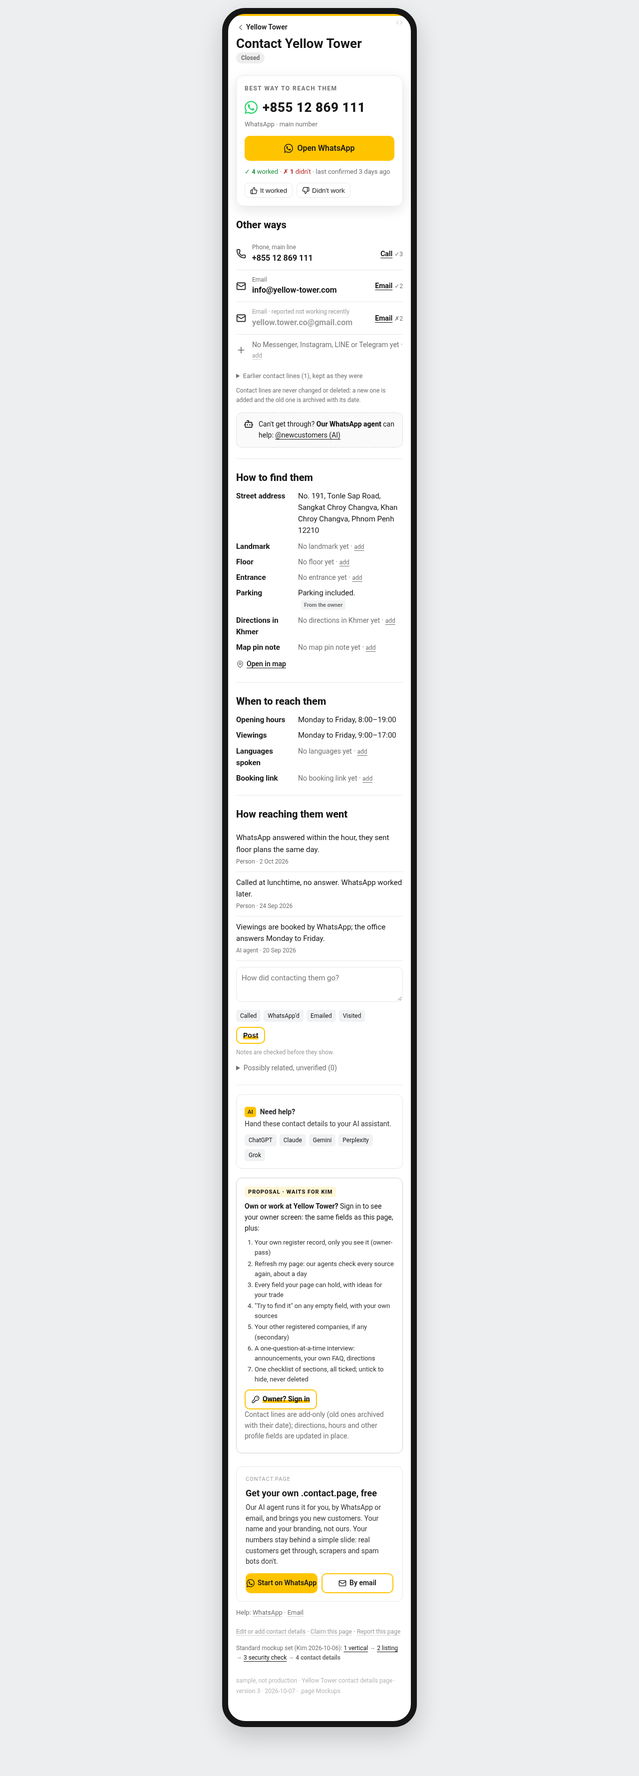
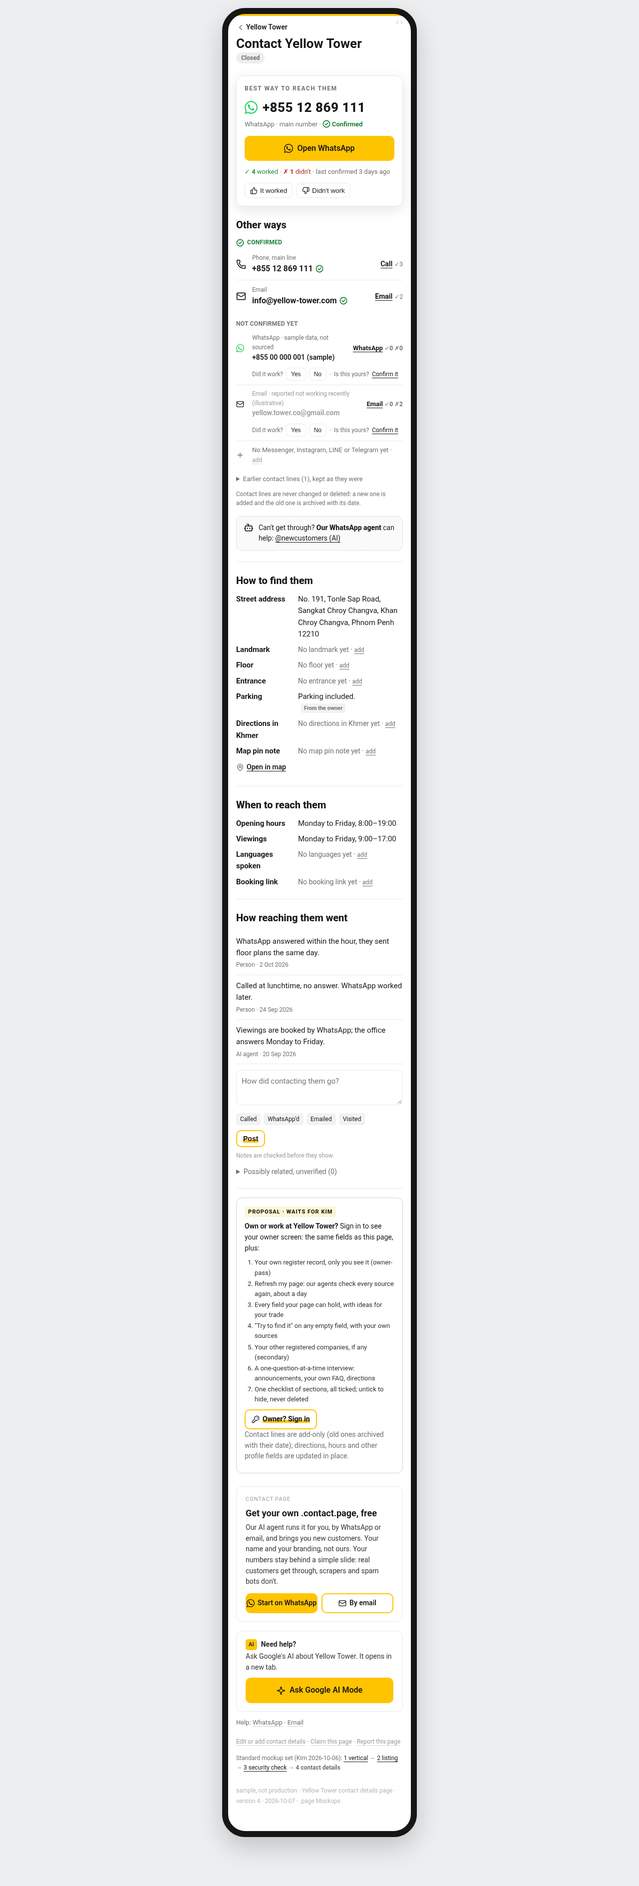
Publish mockups 2026-10-07 01:20 WITA

Changed region(s): [[0.375, 0.0, 0.625, 0.9989]]

diff --git a/yellow-tower-contact-details-page.html b/yellow-tower-contact-details-page.html
@@ -218,9 +218,37 @@ body[data-role="works_here"] .rolemsg{display:block}
 .house .own .linkbtn{color:var(--grey-2);font-size:12px}
 .house .own.hot .linkbtn:first-of-type{color:var(--ink);text-decoration-color:var(--yellow);text-decoration-thickness:3px}
 
-.best .btn.pri{background:var(--yellow);border:2px solid var(--yellow);color:var(--ink);font-weight:600;text-decoration:none}
-.best .btn.pri:hover{background:#ffd23d}
-.best .btn.pri svg{fill:currentColor}
+.btn.pri{background:var(--yellow);border:2px solid var(--yellow);color:var(--ink);font-weight:600;text-decoration:none}
+.btn.pri:hover{background:#ffd23d}
+.btn.pri svg[fill="#25D366"]{fill:currentColor}
+.tick{flex:none;vertical-align:-3px;margin-left:5px}
+.vok{color:#1a7f37;font-weight:700;white-space:nowrap}.vok .tick{margin:0 3px 0 0}
+.grp{display:flex;align-items:center;gap:6px;margin:4px 0 2px;font-size:12px;font-weight:700;color:#1a7f37;letter-spacing:.3px;text-transform:uppercase}
+.grp .tick{margin:0}
+.grp.un{color:var(--grey);margin-top:14px}
+.ways.uv li{padding:8px 0;font-size:13px}
+.ways.uv .v{font-weight:600;font-size:14px}
+.ways.uv .act{font-size:13px}
+.ways.uv li>svg{width:16px;height:16px}
+.uvr{grid-column:2/4;display:flex;flex-wrap:wrap;align-items:center;gap:6px;font-size:12px;color:var(--grey)}
+.uvr a{color:var(--ink)}
+.vb.sm{height:26px;padding:0 9px;font-size:12px}
+.linkbtn{background:none;border:0;padding:0;font:inherit;color:var(--ink);text-decoration:underline;cursor:pointer}
+.ways .act.linkbtn{font-weight:700}
+.aihelp{border:1px solid var(--line);border-radius:12px;padding:16px 18px;margin:18px 0 0;background:#fff;max-width:420px}
+.aihelp .t{display:flex;align-items:center;gap:8px;margin:0 0 2px;font-weight:800}
+.aihelp p{margin:0 0 10px;font-size:14px;color:#333}
+.shade{position:fixed;inset:0;background:rgba(0,0,0,.35);z-index:20}
+.sheet{position:fixed;left:0;right:0;bottom:0;z-index:21;max-width:480px;margin:0 auto;background:#fff;border-radius:16px 16px 0 0;
+  padding:18px 18px 22px;box-shadow:0 -6px 24px rgba(0,0,0,.18);transform:translateY(100%);transition:transform .2s ease-out}
+.sheet.in{transform:none}
+.sheet h2{font-size:18px;margin:0 0 6px}
+.sheet .sk{font-size:12px;font-weight:700;color:var(--grey);text-transform:uppercase;letter-spacing:.3px;margin:0 0 4px}
+.sheet .sp{font-size:14px;color:#333;margin:0 0 12px}
+.sheet .wsx{display:block;margin:12px auto 0;font-size:14px;color:var(--grey)}
+.sheet .votes{margin:8px 0 10px}
+[hidden]{display:none!important}
+@media (prefers-reduced-motion:reduce){.sheet{transition:none}}
 </style>
 </head>
 <body data-role="">
@@ -238,10 +266,10 @@ body[data-role="works_here"] .rolemsg{display:block}
 <p class="rolemsg">You said you’re the owner or staff. <a href="https://wa.me/newcustomers?text=%5BDETAILS%7Ckh34363%7Cclaim%5D%20Hi%2C%20I%20work%20at%20or%20own%20Yellow%20Tower%20%28kh34363.contact.page%29%20and%20want%20to%20claim%20this%20page.%0AMy%20email%3A%20">Claim this page</a> to update it, or <a href="owner-screen.html">see the owner screen</a>.</p>
 
 
-<section class="best" aria-labelledby="b-h">
+<section class="best" aria-labelledby="b-h" data-votebox>
 <p class="k" id="b-h">Best way to reach them</p>
 <p class="val"><svg viewBox="0 0 24 24" width="26" height="26" fill="#25D366" aria-hidden="true"><path d="M17.472 14.382c-.297-.149-1.758-.867-2.03-.967-.273-.099-.471-.148-.67.15-.197.297-.767.966-.94 1.164-.173.199-.347.223-.644.075-.297-.15-1.255-.463-2.39-1.475-.883-.788-1.48-1.761-1.653-2.059-.173-.297-.018-.458.13-.606.134-.133.298-.347.446-.52.149-.174.198-.298.298-.497.099-.198.05-.371-.025-.52-.075-.149-.669-1.612-.916-2.207-.242-.579-.487-.5-.669-.51-.173-.008-.371-.01-.57-.01-.198 0-.52.074-.792.372-.272.297-1.04 1.016-1.04 2.479 0 1.462 1.065 2.875 1.213 3.074.149.198 2.096 3.2 5.077 4.487.709.306 1.262.489 1.694.625.712.227 1.36.195 1.871.118.571-.085 1.758-.719 2.006-1.413.248-.694.248-1.289.173-1.413-.074-.124-.272-.198-.57-.347m-5.421 7.403h-.004a9.87 9.87 0 01-5.031-1.378l-.361-.214-3.741.982.998-3.648-.235-.374a9.86 9.86 0 01-1.51-5.26c.001-5.45 4.436-9.884 9.888-9.884 2.64 0 5.122 1.03 6.988 2.898a9.825 9.825 0 012.893 6.994c-.003 5.45-4.437 9.884-9.885 9.884m8.413-18.297A11.815 11.815 0 0012.05 0C5.495 0 .16 5.335.157 11.892c0 2.096.547 4.142 1.588 5.945L.057 24l6.305-1.654a11.882 11.882 0 005.683 1.448h.005c6.554 0 11.89-5.335 11.893-11.893a11.821 11.821 0 00-3.48-8.413Z"/></svg>+855 12 869 111</p>
-<p class="kind">WhatsApp &middot; main number</p>
+<p class="kind">WhatsApp &middot; main number &middot; <span class="vok"><svg class="tick" viewBox="0 0 24 24" width="16" height="16" fill="none" stroke="#1a7f37" stroke-width="2.5" stroke-linecap="round" stroke-linejoin="round" aria-hidden="true"><circle cx="12" cy="12" r="10" /><path d="m8 12 3 3 5-6" /></svg>Confirmed</span></p>
 <a class="btn wide pri" href="https://wa.me/85512869111"><svg viewBox="0 0 24 24" width="18" height="18" fill="#25D366" aria-hidden="true"><path d="M17.472 14.382c-.297-.149-1.758-.867-2.03-.967-.273-.099-.471-.148-.67.15-.197.297-.767.966-.94 1.164-.173.199-.347.223-.644.075-.297-.15-1.255-.463-2.39-1.475-.883-.788-1.48-1.761-1.653-2.059-.173-.297-.018-.458.13-.606.134-.133.298-.347.446-.52.149-.174.198-.298.298-.497.099-.198.05-.371-.025-.52-.075-.149-.669-1.612-.916-2.207-.242-.579-.487-.5-.669-.51-.173-.008-.371-.01-.57-.01-.198 0-.52.074-.792.372-.272.297-1.04 1.016-1.04 2.479 0 1.462 1.065 2.875 1.213 3.074.149.198 2.096 3.2 5.077 4.487.709.306 1.262.489 1.694.625.712.227 1.36.195 1.871.118.571-.085 1.758-.719 2.006-1.413.248-.694.248-1.289.173-1.413-.074-.124-.272-.198-.57-.347m-5.421 7.403h-.004a9.87 9.87 0 01-5.031-1.378l-.361-.214-3.741.982.998-3.648-.235-.374a9.86 9.86 0 01-1.51-5.26c.001-5.45 4.436-9.884 9.888-9.884 2.64 0 5.122 1.03 6.988 2.898a9.825 9.825 0 012.893 6.994c-.003 5.45-4.437 9.884-9.885 9.884m8.413-18.297A11.815 11.815 0 0012.05 0C5.495 0 .16 5.335.157 11.892c0 2.096.547 4.142 1.588 5.945L.057 24l6.305-1.654a11.882 11.882 0 005.683 1.448h.005c6.554 0 11.89-5.335 11.893-11.893a11.821 11.821 0 00-3.48-8.413Z"/></svg>Open WhatsApp</a>
 <div class="votes" data-ch="wa">
 <span><span class="ok">&#10003; <b class="w">4</b> worked</span> &middot; <span class="bad">&#10007; <b class="f">1</b> didn't</span> &middot; last confirmed 3 days ago</span>
@@ -255,10 +283,17 @@ body[data-role="works_here"] .rolemsg{display:block}
 
 <section class="sec" aria-labelledby="o-h">
 <h2 class="h2s" id="o-h">Other ways</h2>
+<p class="grp"><svg class="tick" viewBox="0 0 24 24" width="16" height="16" fill="none" stroke="#1a7f37" stroke-width="2.5" stroke-linecap="round" stroke-linejoin="round" aria-hidden="true"><circle cx="12" cy="12" r="10" /><path d="m8 12 3 3 5-6" /></svg>Confirmed</p>
 <ul class="ways">
-<li><svg viewBox="0 0 24 24" width="20" height="20" fill="none" stroke="currentColor" stroke-width="2" stroke-linecap="round" stroke-linejoin="round" aria-hidden="true"><path d="M13.832 16.568a1 1 0 0 0 1.213-.303l.355-.465A2 2 0 0 1 17 15h3a2 2 0 0 1 2 2v3a2 2 0 0 1-2 2A18 18 0 0 1 2 4a2 2 0 0 1 2-2h3a2 2 0 0 1 2 2v3a2 2 0 0 1-.8 1.6l-.468.351a1 1 0 0 0-.292 1.233 14 14 0 0 0 6.392 6.384" /></svg><span><span class="lb">Phone, main line</span><span class="v">+855 12 869 111</span></span><span><a class="act" href="tel:+85512869111">Call</a> <span class="vc">&#10003;3</span></span></li>
-<li><svg viewBox="0 0 24 24" width="20" height="20" fill="none" stroke="currentColor" stroke-width="2" stroke-linecap="round" stroke-linejoin="round" aria-hidden="true"><path d="m22 7-8.991 5.727a2 2 0 0 1-2.009 0L2 7" /> <rect x="2" y="4" width="20" height="16" rx="2" /></svg><span><span class="lb">Email</span><span class="v">info@yellow-tower.com</span></span><span><a class="act" href="mailto:info@yellow-tower.com">Email</a> <span class="vc">&#10003;2</span></span></li>
-<li class="gone"><svg viewBox="0 0 24 24" width="20" height="20" fill="none" stroke="currentColor" stroke-width="2" stroke-linecap="round" stroke-linejoin="round" aria-hidden="true"><path d="m22 7-8.991 5.727a2 2 0 0 1-2.009 0L2 7" /> <rect x="2" y="4" width="20" height="16" rx="2" /></svg><span><span class="lb">Email &middot; reported not working recently</span><span class="v">yellow.tower.co@gmail.com</span></span><span><a class="act" href="mailto:yellow.tower.co@gmail.com">Email</a> <span class="vc">&#10007;2</span></span></li>
+<li><svg viewBox="0 0 24 24" width="20" height="20" fill="none" stroke="currentColor" stroke-width="2" stroke-linecap="round" stroke-linejoin="round" aria-hidden="true"><path d="M13.832 16.568a1 1 0 0 0 1.213-.303l.355-.465A2 2 0 0 1 17 15h3a2 2 0 0 1 2 2v3a2 2 0 0 1-2 2A18 18 0 0 1 2 4a2 2 0 0 1 2-2h3a2 2 0 0 1 2 2v3a2 2 0 0 1-.8 1.6l-.468.351a1 1 0 0 0-.292 1.233 14 14 0 0 0 6.392 6.384" /></svg><span><span class="lb">Phone, main line</span><span class="v">+855 12 869 111<svg class="tick" viewBox="0 0 24 24" width="16" height="16" fill="none" stroke="#1a7f37" stroke-width="2.5" stroke-linecap="round" stroke-linejoin="round" aria-hidden="true"><circle cx="12" cy="12" r="10" /><path d="m8 12 3 3 5-6" /></svg></span></span><span><a class="act" href="tel:+85512869111">Call</a> <span class="vc">&#10003;3</span></span></li>
+<li><svg viewBox="0 0 24 24" width="20" height="20" fill="none" stroke="currentColor" stroke-width="2" stroke-linecap="round" stroke-linejoin="round" aria-hidden="true"><path d="m22 7-8.991 5.727a2 2 0 0 1-2.009 0L2 7" /> <rect x="2" y="4" width="20" height="16" rx="2" /></svg><span><span class="lb">Email</span><span class="v">info@yellow-tower.com<svg class="tick" viewBox="0 0 24 24" width="16" height="16" fill="none" stroke="#1a7f37" stroke-width="2.5" stroke-linecap="round" stroke-linejoin="round" aria-hidden="true"><circle cx="12" cy="12" r="10" /><path d="m8 12 3 3 5-6" /></svg></span></span><span><a class="act" href="mailto:info@yellow-tower.com">Email</a> <span class="vc">&#10003;2</span></span></li>
+</ul>
+<p class="grp un">Not confirmed yet</p>
+<ul class="ways uv">
+<li data-votebox><svg viewBox="0 0 24 24" width="18" height="18" fill="#25D366" aria-hidden="true"><path d="M17.472 14.382c-.297-.149-1.758-.867-2.03-.967-.273-.099-.471-.148-.67.15-.197.297-.767.966-.94 1.164-.173.199-.347.223-.644.075-.297-.15-1.255-.463-2.39-1.475-.883-.788-1.48-1.761-1.653-2.059-.173-.297-.018-.458.13-.606.134-.133.298-.347.446-.52.149-.174.198-.298.298-.497.099-.198.05-.371-.025-.52-.075-.149-.669-1.612-.916-2.207-.242-.579-.487-.5-.669-.51-.173-.008-.371-.01-.57-.01-.198 0-.52.074-.792.372-.272.297-1.04 1.016-1.04 2.479 0 1.462 1.065 2.875 1.213 3.074.149.198 2.096 3.2 5.077 4.487.709.306 1.262.489 1.694.625.712.227 1.36.195 1.871.118.571-.085 1.758-.719 2.006-1.413.248-.694.248-1.289.173-1.413-.074-.124-.272-.198-.57-.347m-5.421 7.403h-.004a9.87 9.87 0 01-5.031-1.378l-.361-.214-3.741.982.998-3.648-.235-.374a9.86 9.86 0 01-1.51-5.26c.001-5.45 4.436-9.884 9.888-9.884 2.64 0 5.122 1.03 6.988 2.898a9.825 9.825 0 012.893 6.994c-.003 5.45-4.437 9.884-9.885 9.884m8.413-18.297A11.815 11.815 0 0012.05 0C5.495 0 .16 5.335.157 11.892c0 2.096.547 4.142 1.588 5.945L.057 24l6.305-1.654a11.882 11.882 0 005.683 1.448h.005c6.554 0 11.89-5.335 11.893-11.893a11.821 11.821 0 00-3.48-8.413Z"/></svg><span><span class="lb">WhatsApp &middot; sample data, not sourced</span><span class="v">+855 00 000 001 (sample)</span></span><span><button class="act linkbtn" type="button" data-wa="85500000001">WhatsApp</button> <span class="vc">&#10003;<b class="w">0</b> &#10007;<b class="f">0</b></span></span>
+<div class="uvr"><span class="uvq">Did it work?</span> <button class="vb sm" type="button" data-v="w">Yes</button> <button class="vb sm" type="button" data-v="f">No</button> <span class="sep">&middot;</span> Is this yours? <a href="https://wa.me/newcustomers?text=%5BGATE%7Ckh34363%7Cconfirm%5D%20Hi%2C%20the%20unconfirmed%20WhatsApp%20number%20on%20Yellow%20Tower%20%28kh34363.contact.page%29%20is%20mine%20and%20I%20want%20to%20confirm%20it.%0AMy%20email%3A%20">Confirm it</a></div></li>
+<li data-votebox class="gone"><svg viewBox="0 0 24 24" width="20" height="20" fill="none" stroke="currentColor" stroke-width="2" stroke-linecap="round" stroke-linejoin="round" aria-hidden="true"><path d="m22 7-8.991 5.727a2 2 0 0 1-2.009 0L2 7" /> <rect x="2" y="4" width="20" height="16" rx="2" /></svg><span><span class="lb">Email &middot; reported not working recently (illustrative)</span><span class="v">yellow.tower.co@gmail.com</span></span><span><a class="act" href="mailto:yellow.tower.co@gmail.com">Email</a> <span class="vc">&#10003;<b class="w">0</b> &#10007;<b class="f">2</b></span></span>
+<div class="uvr"><span class="uvq">Did it work?</span> <button class="vb sm" type="button" data-v="w">Yes</button> <button class="vb sm" type="button" data-v="f">No</button> <span class="sep">&middot;</span> Is this yours? <a href="https://wa.me/newcustomers?text=%5BGATE%7Ckh34363%7Cconfirm%5D%20Hi%2C%20the%20email%20yellow.tower.co%40gmail.com%20on%20Yellow%20Tower%20%28kh34363.contact.page%29%20is%20mine%20and%20I%20want%20to%20confirm%20it.%0AMy%20email%3A%20">Confirm it</a></div></li>
 <li class="empty"><svg viewBox="0 0 24 24" width="20" height="20" fill="none" stroke="currentColor" stroke-width="2" stroke-linecap="round" stroke-linejoin="round" aria-hidden="true"><path d="M5 12h14" /> <path d="M12 5v14" /></svg><span>No Messenger, Instagram, LINE or Telegram yet &middot; <a class="small-act" href="https://wa.me/newcustomers?text=%5BDETAILS%7Ckh34363%7Cadd-channel%5D%20Hi%2C%20I%20want%20to%20add%20a%20contact%20channel%20for%20Yellow%20Tower%20%28kh34363.contact.page%29.%0AMy%20email%3A%20">add</a></span></li>
 </ul>
 <details class="arch">
@@ -316,12 +351,6 @@ body[data-role="works_here"] .rolemsg{display:block}
 </section>
 
 
-<section class="help" style="margin:18px 0 0;border-radius:12px" aria-labelledby="h-h">
-<p class="t" id="h-h"><span class="badge">AI</span>Need help?</p>
-<p>Hand these contact details to your AI assistant.</p>
-<div class="chiprow"><button class="chip" type="button">ChatGPT</button><button class="chip" type="button">Claude</button><button class="chip" type="button">Gemini</button><button class="chip" type="button">Perplexity</button><button class="chip" type="button">Grok</button></div>
-</section>
-
 <footer>
 
 <div class="ownerbox">
@@ -353,11 +382,35 @@ body[data-role="works_here"] .rolemsg{display:block}
 </aside>
 
 
+<section class="aihelp" aria-labelledby="h-h">
+<p class="t" id="h-h"><span class="badge">AI</span>Need help?</p>
+<p>Ask Google's AI about Yellow Tower. It opens in a new tab.</p>
+<a class="btn wide pri" href="https://www.google.com/search?udm=50&amp;hl=en&amp;q=Yellow%20Tower%20office%20space%2C%20Phnom%20Penh%20%28kh34363.contact.page%29%3A%20what%20is%20the%20best%20way%20to%20contact%20them%2C%20and%20when%20are%20they%20open%3F" target="_blank" rel="noopener nofollow"><svg viewBox="0 0 24 24" width="18" height="18" fill="none" stroke="currentColor" stroke-width="2" stroke-linecap="round" stroke-linejoin="round" aria-hidden="true"><path d="M9.937 15.5A2 2 0 0 0 8.5 14.063l-6.135-1.582a.5.5 0 0 1 0-.962L8.5 9.936A2 2 0 0 0 9.937 8.5l1.582-6.135a.5.5 0 0 1 .963 0L14.063 8.5A2 2 0 0 0 15.5 9.937l6.135 1.581a.5.5 0 0 1 0 .964L15.5 14.063a2 2 0 0 0-1.437 1.437l-1.582 6.135a.5.5 0 0 1-.963 0z" /></svg>Ask Google AI Mode</a>
+</section>
+
+
 <p class="fhelp">Help: <a href="https://wa.me/newcustomers?text=%5BDETAILS%7Ckh34363%7Chelp%5D%20Hi%2C%20I%20need%20help%20with%20contact.page%3A%0AMy%20email%3A%20">WhatsApp</a> · <a href="mailto:newcustomers@contact.page?subject=%5BDETAILS%7Ckh34363%7Chelp%5D%20Help%20with%20contact.page&amp;body=What%20do%20you%20need%20help%20with%3F%0A">Email</a></p>
 <p class="report"><a class="small-act" href="https://wa.me/newcustomers?text=%5BDETAILS%7Ckh34363%7Cedit%5D%20Hi%2C%20I%20want%20to%20update%20or%20add%20contact%20details%20for%20Yellow%20Tower%20%28kh34363.contact.page%29.%0AMy%20email%3A%20">Edit or add contact details</a> &middot; <a class="small-act" href="https://wa.me/newcustomers?text=%5BDETAILS%7Ckh34363%7Cclaim%5D%20Hi%2C%20I%20work%20at%20or%20own%20Yellow%20Tower%20%28kh34363.contact.page%29%20and%20want%20to%20claim%20this%20page.%0AMy%20email%3A%20">Claim this page</a> &middot; <a class="small-act" href="https://wa.me/newcustomers?text=%5BDETAILS%7Ckh34363%7Creport%5D%20Hi%2C%20I%20want%20to%20report%20a%20problem%20with%20the%20contact%20details%20of%20Yellow%20Tower%20%28kh34363.contact.page%29.%0AMy%20email%3A%20">Report this page</a></p>
 <p class="chain">Standard mockup set (Kim 2026-10-06): <a href="phnom-penh-office-rental-vertical-page.html">1 vertical</a> &rarr; <a href="yellow-tower-listing-page.html">2 listing</a> &rarr; <a href="yellow-tower-security-page.html">3 security check</a> &rarr; <b>4 contact details</b></p>
-<p class="meta">sample, not production · Yellow Tower contact details page · version 3 · 2026-10-07 · .page Mockups</p>
+<p class="meta">sample, not production · Yellow Tower contact details page · version 4 · 2026-10-07 · .page Mockups</p>
 </footer>
+</div>
+
+<div class="shade" id="shade" hidden></div>
+<div class="sheet" id="waSheet" role="dialog" aria-modal="true" aria-labelledby="ws-h" hidden>
+<div class="s1">
+<p class="sk">Not confirmed yet</p>
+<h2 id="ws-h">WhatsApp +855 00 000 001 (sample)</h2>
+<p class="sp">Nobody has confirmed this number yet. Try it, then tell us if it worked: it helps the next person.</p>
+<a class="btn wide pri" id="wsOpen" href="https://wa.me/85500000001" target="_blank" rel="noopener"><svg viewBox="0 0 24 24" width="18" height="18" fill="#25D366" aria-hidden="true"><path d="M17.472 14.382c-.297-.149-1.758-.867-2.03-.967-.273-.099-.471-.148-.67.15-.197.297-.767.966-.94 1.164-.173.199-.347.223-.644.075-.297-.15-1.255-.463-2.39-1.475-.883-.788-1.48-1.761-1.653-2.059-.173-.297-.018-.458.13-.606.134-.133.298-.347.446-.52.149-.174.198-.298.298-.497.099-.198.05-.371-.025-.52-.075-.149-.669-1.612-.916-2.207-.242-.579-.487-.5-.669-.51-.173-.008-.371-.01-.57-.01-.198 0-.52.074-.792.372-.272.297-1.04 1.016-1.04 2.479 0 1.462 1.065 2.875 1.213 3.074.149.198 2.096 3.2 5.077 4.487.709.306 1.262.489 1.694.625.712.227 1.36.195 1.871.118.571-.085 1.758-.719 2.006-1.413.248-.694.248-1.289.173-1.413-.074-.124-.272-.198-.57-.347m-5.421 7.403h-.004a9.87 9.87 0 01-5.031-1.378l-.361-.214-3.741.982.998-3.648-.235-.374a9.86 9.86 0 01-1.51-5.26c.001-5.45 4.436-9.884 9.888-9.884 2.64 0 5.122 1.03 6.988 2.898a9.825 9.825 0 012.893 6.994c-.003 5.45-4.437 9.884-9.885 9.884m8.413-18.297A11.815 11.815 0 0012.05 0C5.495 0 .16 5.335.157 11.892c0 2.096.547 4.142 1.588 5.945L.057 24l6.305-1.654a11.882 11.882 0 005.683 1.448h.005c6.554 0 11.89-5.335 11.893-11.893a11.821 11.821 0 00-3.48-8.413Z"/></svg>Open WhatsApp</a>
+<button class="linkbtn wsx" type="button">Cancel</button>
+</div>
+<div class="s2" hidden>
+<h2>Did WhatsApp work?</h2>
+<div class="votes"><button class="vb" type="button" data-sv="w">Yes, it worked</button><button class="vb" type="button" data-sv="f">No</button></div>
+<p class="sp thx" hidden>Thanks, your answer counts toward confirming this number.</p>
+<button class="linkbtn wsx" type="button">Close</button>
+</div>
 </div>
 <script>
 // Mockup behaviour only: in-memory state, nothing is sent.
@@ -367,10 +420,27 @@ body[data-role="works_here"] .rolemsg{display:block}
   var n=new Date(Date.now()+(7*60+new Date().getTimezoneOffset())*60000), d=n.getDay(), h=n.getHours()+n.getMinutes()/60,
       open=d>=1&&d<=5&&h>=8&&h<19, p=document.getElementById('openPill'); p.textContent=open?'Open now':'Closed'; p.classList.toggle('open',open);
   document.querySelectorAll('[data-note]').forEach(function(a){ a.addEventListener('click',function(e){ e.preventDefault(); var x=document.getElementById(a.dataset.note); x.style.display='block'; }); });
-  document.querySelectorAll('.vb').forEach(function(b){ b.addEventListener('click',function(){
-    if(b.classList.contains('on')) return;
-    document.querySelectorAll('.vb').forEach(function(o){ o.classList.remove('on'); });
-    b.classList.add('on'); var el=document.querySelector('.votes[data-ch="wa"] .'+b.dataset.v); el.textContent=(+el.textContent)+1; }); });
+  function vote(box,v){ var el=box.querySelector('.'+v); if(el) el.textContent=(+el.textContent)+1; }
+  document.querySelectorAll('[data-votebox] .vb').forEach(function(b){ b.addEventListener('click',function(){
+    var box=b.closest('[data-votebox]'); if(box.querySelector('.vb.on')) return;
+    b.classList.add('on'); vote(box,b.dataset.v); }); });
+  // Slide-out panel: WhatsApp on an unconfirmed number
+  var sh=document.getElementById('waSheet'), shade=document.getElementById('shade'), row=null, away=false, opener=null;
+  function openSheet(btn){ opener=btn; row=btn.closest('[data-votebox]'); sh.querySelector('.s1').hidden=false; sh.querySelector('.s2').hidden=true;
+    sh.querySelector('.thx').hidden=true; sh.querySelectorAll('[data-sv]').forEach(function(x){x.classList.remove('on');x.disabled=false;});
+    sh.hidden=false; shade.hidden=false; requestAnimationFrame(function(){ sh.classList.add('in'); }); document.getElementById('wsOpen').focus(); }
+  function closeSheet(){ sh.classList.remove('in'); shade.hidden=true; away=false; setTimeout(function(){ sh.hidden=true; },200); if(opener) opener.focus(); }
+  function back(){ if(!away) return; away=false; sh.querySelector('.s1').hidden=true; sh.querySelector('.s2').hidden=false; sh.querySelector('[data-sv]').focus(); }
+  document.querySelectorAll('[data-wa]').forEach(function(b){ b.addEventListener('click',function(){ openSheet(b); }); });
+  document.getElementById('wsOpen').addEventListener('click',function(){ away=true; setTimeout(back,2500); });
+  document.addEventListener('visibilitychange',function(){ if(!document.hidden) back(); });
+  window.addEventListener('focus',back);
+  sh.querySelectorAll('[data-sv]').forEach(function(b){ b.addEventListener('click',function(){
+    b.classList.add('on'); sh.querySelectorAll('[data-sv]').forEach(function(x){x.disabled=true;}); sh.querySelector('.thx').hidden=false;
+    if(row && !row.querySelector('.vb.on')){ var m=row.querySelector('.vb[data-v="'+b.dataset.sv+'"]'); if(m) m.classList.add('on'); vote(row,b.dataset.sv); } }); });
+  sh.querySelectorAll('.wsx').forEach(function(b){ b.addEventListener('click',closeSheet); });
+  shade.addEventListener('click',closeSheet);
+  document.addEventListener('keydown',function(e){ if(e.key==='Escape' && !sh.hidden) closeSheet(); });
   document.querySelectorAll('#qc .chip').forEach(function(c){ c.addEventListener('click',function(){ var t=document.getElementById('nt'); t.value=(t.value?t.value+' ':'')+c.textContent+'.'; t.focus(); }); });
   document.getElementById('post').addEventListener('click',function(){ var t=document.getElementById('nt'); if(!t.value.trim()) return;
     var li=document.createElement('li'); li.textContent=t.value.trim(); var s=document.createElement('span'); s.className='by'; s.textContent='You · waiting for the check'; li.appendChild(s);

diff --git a/dev/yellow-tower-contact-details-page-notes.html b/dev/yellow-tower-contact-details-page-notes.html
@@ -9,7 +9,7 @@ pre{white-space:pre-wrap;word-wrap:break-word;font:14px/1.6 -apple-system,Segoe 
 <h1>Developer notes: Contact details</h1>
 <p>The notes written into the mockup's source, summary first, then in page order (top to bottom). Sample data only; contact values are masked.</p>
 <ol>
-<li><pre>YELLOW TOWER CONTACT DETAILS PAGE (current: version 3, 2026-10-07, .page Mockups). Design task D015. Route in production:
+<li><pre>YELLOW TOWER CONTACT DETAILS PAGE (current: version 4, 2026-10-07, .page Mockups). Design task D015. Route in production:
 kh34363.contact.page/contact-details after the check (the security page and this page share the route; the server shows
 this page once cp_verified is set). Page 4 of the standard mockup set (Kim 2026-10-06):
 1 phnom-penh-office-rental-vertical-page.html -&gt; 2 yellow-tower-listing-page.html -&gt; 3 yellow-tower-security-page.html -&gt; 4 this page.
@@ -23,7 +23,7 @@ BUILT FROM
 
 ORDER, mobile first: header (back link, H1, subline, open pill) -&gt; role line (the owner or staff) -&gt; best way card with votes -&gt;
 other ways (+ earlier contact lines, archived) -&gt; agent row -&gt; how to find them -&gt; when to reach them -&gt; community notes -&gt;
-ad -&gt; need help -&gt; footer: owner box (proposal), edit / claim / report, set chain, sample line.
+footer: owner box (proposal), house ad, AI help (Google AI Mode), help, edit / claim / report, set chain, sample line.
 
 RULES APPLIED
 - noindex (N14). No AdSense on the gate; one slot here, after the content, never beside a contact button.
@@ -41,6 +41,10 @@ OPEN FOR KIM
 - Which channel leads when there are no votes yet (proposal: the one the owner marks main, else phone).
 
 CHANGE LOG
+v4 2026-10-07 (.page Mockups, Kim): confirmed contact lines first with a green tick, unconfirmed lines below, smaller, each
+               with &quot;Did it work?&quot; Yes/No and &quot;Is this yours? Confirm it&quot; ([GATE|kh34363|confirm], asks the email); WhatsApp
+               on an unconfirmed number opens a slide-out panel, then asks &quot;Did WhatsApp work?&quot;; AI help = one button to
+               Google AI Mode (new tab, noopener nofollow) below the house ad, replacing the assistant chips. v3 in archive/.
 v3 2026-10-07 (.page Mockups): Kim: no subline under the H1; every contact value in full (phone placeholders filled at
                publish, emails literal); &quot;Open WhatsApp&quot; in the new style (solid yellow, weight 600, no underline). Audit: AdSense slot replaced by our house ad (get your free site), placed after the
                owner box, far from the AI chips; WhatsApp texts ask for the email (N25); dev notes for items 8 and 10. Also footer Help offers both channels, WhatsApp and the email bot (Kim 2026-10-07, MVP; email preferred longer-term); no other footer links added (Terms / Cookie settings wait for Kim). v2 in archive/.
@@ -73,7 +77,17 @@ Same field set and order as the owner screen&#x27;s &quot;Your contact details&q
 Phone (main line), WhatsApp, Email; extra emails as extra rows. No website row (N22: open whether it shows after a
 link check passes; not shown until Kim decides).
 DATA RULE (Kim 2026-10-06, data-pool-design layer 6): contact lines are add-only. A new number is a new row; an old one
-is archived with its date, never edited or deleted (&quot;Earlier contact lines&quot; below; the archived line is sample data).</pre></li>
+is archived with its date, never edited or deleted (&quot;Earlier contact lines&quot; below; the archived line is sample data).
+VERIFIED VS UNVERIFIED (Kim 2026-10-07, v4): confirmed lines first, each with a green tick; unconfirmed lines below,
+smaller, each with a &quot;Did it work? Yes / No&quot; vote and &quot;Is this yours? Confirm it&quot; = WhatsApp to our agent with
+[GATE|kh34363|confirm], prefill asks for the owner&#x27;s email (N25). Confirmed = owner-confirmed OR enough net &quot;worked&quot;
+votes (threshold open). The unconfirmed WhatsApp number is SAMPLE data ({{SAMPLE_UNCONF_WA}}, filled at publish with an
+obvious +855 00 ... (sample) value); the gmail row&#x27;s &quot;not working&quot; status is illustrative.
+WHATSAPP ON AN UNCONFIRMED NUMBER (Kim 2026-10-07): tapping it opens a slide-out panel (bottom sheet) with &quot;Open WhatsApp&quot;
+(new tab); when the visitor comes back (visibilitychange / focus) the panel asks &quot;Did WhatsApp work?&quot; Yes / No, and the
+vote counts toward confirming the number. Confirmed numbers open WhatsApp directly, no panel.
+OPEN (design-state D017, waits for Kim&#x27;s go): one pattern for every number row (call, WhatsApp, Telegram, copy;
+unconfirmed channels use the vote slide-out) and one card shape instead of the chat-bubble cards.</pre></li>
 <li><pre>4. HOUSE AGENT ROW (D015 spec 4). Styled apart from the business&#x27;s own channels; AI disclosed in the label (start-here).</pre></li>
 <li><pre>5. ADDRESS AND DIRECTIONS. Same fields and order as the owner screen (layer 6): Street address, Landmark, Floor, Entrance,
 Parking, Directions in Khmer, Map pin note. Profile fields: they overwrite in place (no history). IF empty: a quiet
@@ -86,16 +100,23 @@ when one is posted, also shows here as one line under the hours (none posted: hi
 / owner), date. No chat bubbles, avatars or typing dots (honest UI). Composer: textarea, quick chips, Post; notes are
 checked before they show. The three notes are illustrative sample data (security page shows &quot;Community notes 3&quot;).
 Notes use inbox_items route=contact_note (agent-channels.md). Below, collapsed: &quot;Possibly related, unverified&quot;.</pre></li>
-<li><pre>9. NEED HELP (D015 spec 7): behind the gate the brief carries the FULL record (listing-page-engine). Mockup: no values.</pre></li>
 <li><pre>10. OWNER ENTRY. PROPOSAL, waits for Kim (design-state question 1): the owner&#x27;s side is Page Bot&#x27;s owner screen
 (CONTACT/kb/mockups/owner-screen-2026-10-06.html, owner layers from kb/data-pool-design-2026-10-06.md). It is linked,
 not copied: the visitor page and the owner screen use the same fields; the owner sees full values and the layers,
 visitors see this page. Production: &quot;Sign in&quot; = owner login, then the owner screen.</pre></li>
 <li><pre>8. HOUSE AD (audit 2026-10-07): replaces the AdSense slot. Ours, labelled &quot;contact.page&quot;: get your own free site
-(same box as the security page). Placed in the footer after the owner box, far from the AI assistant chips.
+(same box as the security page). Placed in the footer after the owner box; the AI help button sits below it (Kim 2026-10-07).
 DEVELOPER (item 8): no AdSense on this page in the MVP; if AdSense comes back here: async + lazy, fixed 250px slot,
 never next to a contact value, a button or the AI chips.</pre></li>
+<li><pre>9. NEED HELP: AI HELP BUTTON (Kim 2026-10-07, v4). One button that opens Google AI Mode (udm=50) in a new tab with a
+prefilled question about this business; target=_blank rel=&quot;noopener nofollow&quot;. Placed below the contact rows and
+below the house ad, never at the top. Kim is fine with visitors leaving the page. Replaces the five assistant chips.
+DEVELOPER: a new-tab outbound link has no SEO cost (nofollow passes no ranking signal, and this page stays
+noindex, nofollow and out of the sitemap). Query = &quot;&lt;name&gt; &lt;category&gt;, &lt;city&gt; (&lt;id&gt;.contact.page): what is the best way
+to contact them, and when are they open?&quot; built server-side from the listing; no contact values in the query.</pre></li>
 <li><pre>FOOTER HELP (Kim 2026-10-07, MVP): both channels, WhatsApp and the email bot (email preferred longer-term for a
 business feel and record keeping). Claim / Edit / Remove / Report stay WhatsApp deep links. No other footer links
 yet: Terms and Cookie settings wait for Kim.</pre></li>
+<li><pre>SLIDE-OUT PANEL for WhatsApp on an unconfirmed number (Kim 2026-10-07). Step 1: open WhatsApp (new tab). Step 2, after
+the visitor returns: &quot;Did WhatsApp work?&quot; Yes / No; the vote lands on that row. Esc or the backdrop closes it.</pre></li>
 </ol></body></html>
